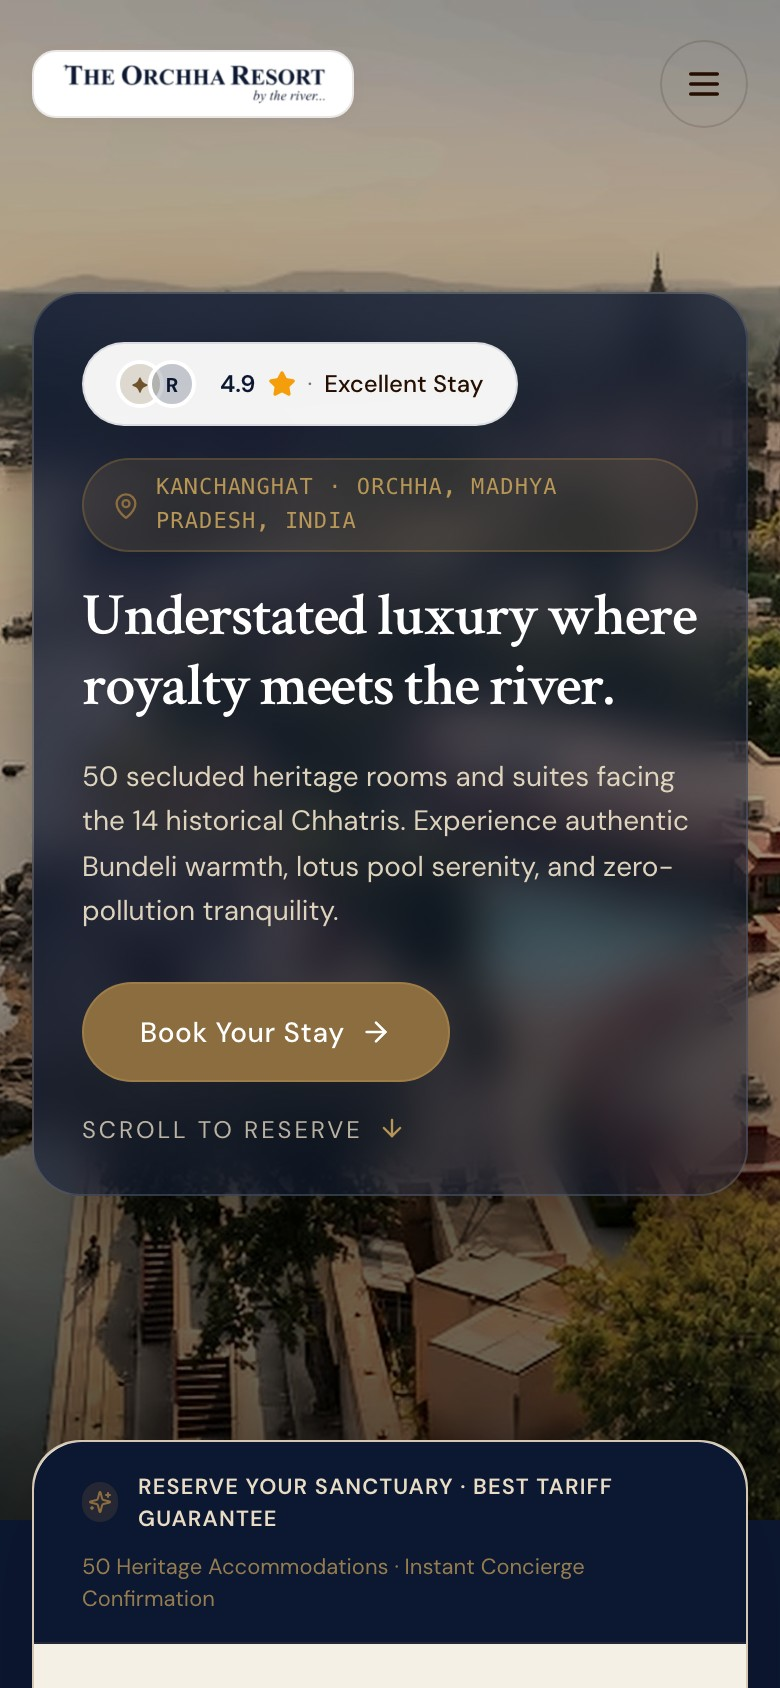
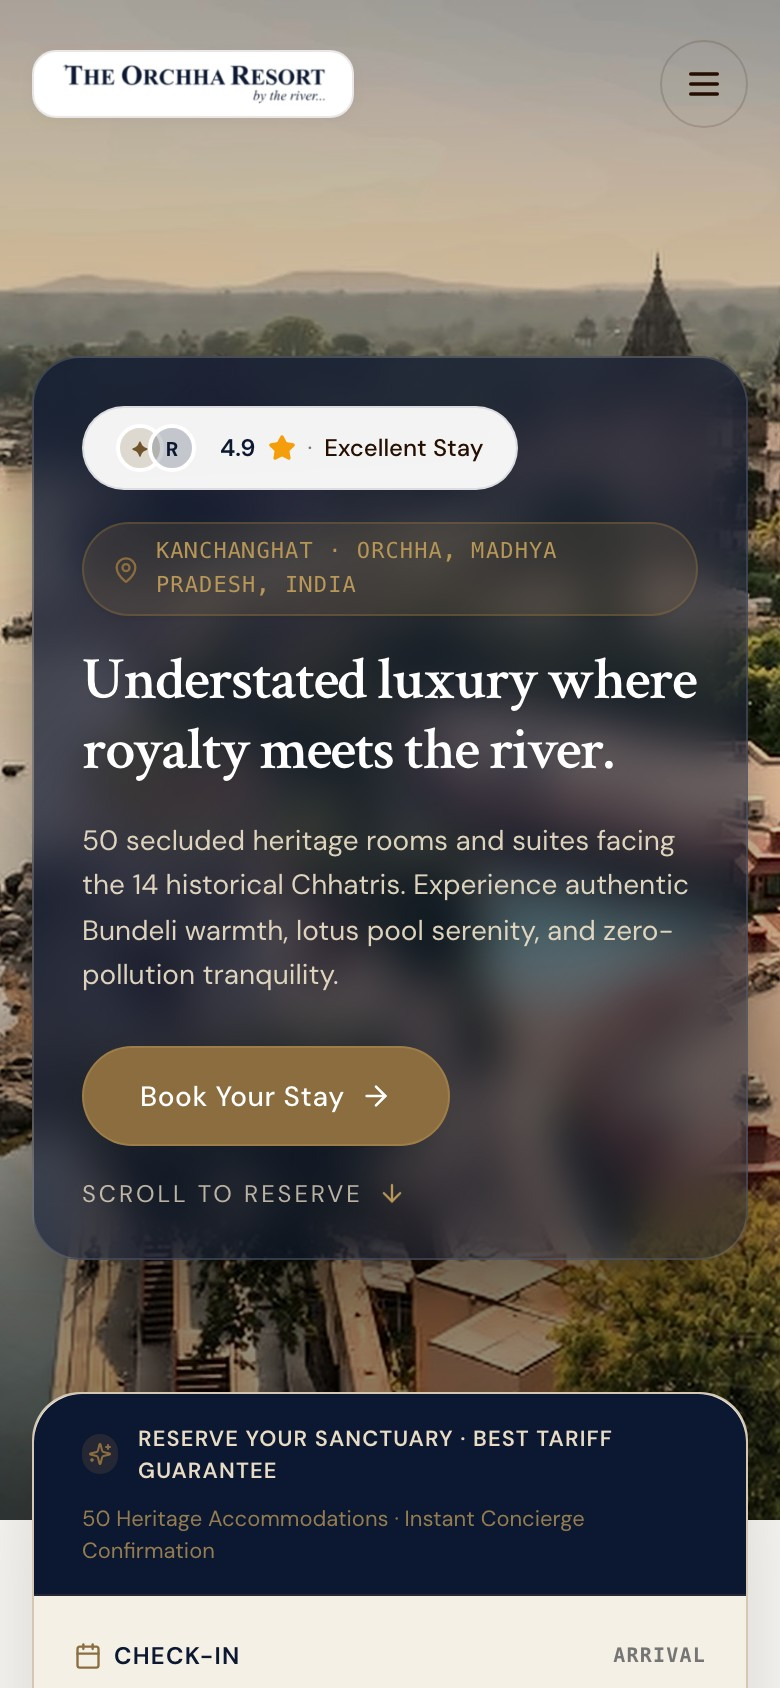
feat(hero): deploy new 4K sunrise over River Betwa and Royal Cenotaphs as homepage hero with scroll zoom

diff --git a/src/lib/assets.ts b/src/lib/assets.ts
@@ -61,13 +61,13 @@ export const RESORT_ASSETS: Record<string, ResortAsset> = {
   heroDesktop: {
     id: "hero-desktop",
     category: "hero",
-    title: "The Orchha Resort Aerial River Panorama & Royal Cenotaphs at Golden Hour (4K UHD)",
-    description: "Breathtaking high-definition aerial panorama of The Orchha Resort along the Betwa River with the 14 Royal Chhatris in the evening golden light",
+    title: "The Royal Cenotaphs at Golden Sunrise on River Betwa (4K UHD)",
+    description: "Breathtaking 4K Ultra-HD panorama of the ancient Bundela Cenotaphs (Chhatris) across the mist and waters of River Betwa at golden sunrise",
     src: "/images/resort/hero/hero-aerial-chhatris-river.jpg",
     aspectRatio: "16:9",
     width: 3840,
-    height: 2160,
-    alt: "Aerial panorama of The Orchha Resort nestled along the Betwa River with the 14 Royal Cenotaphs at golden hour",
+    height: 2865,
+    alt: "Golden sunrise over River Betwa with morning mist and the monumental 14 Royal Cenotaphs in Orchha",
     isStagingPlaceholder: false,
     targetPlacement: "Homepage Hero Section (Desktop)",
     replacementFileName: "hero-aerial-chhatris-river.jpg",
@@ -75,13 +75,13 @@ export const RESORT_ASSETS: Record<string, ResortAsset> = {
   heroMobile: {
     id: "hero-mobile",
     category: "hero",
-    title: "The Orchha Resort Aerial River Panorama & Royal Cenotaphs at Golden Hour (4K UHD)",
-    description: "Breathtaking high-definition aerial panorama of The Orchha Resort along the Betwa River with the 14 Royal Chhatris in the evening golden light",
+    title: "The Royal Cenotaphs at Golden Sunrise on River Betwa (4K UHD)",
+    description: "Breathtaking 4K Ultra-HD panorama of the ancient Bundela Cenotaphs (Chhatris) across the mist and waters of River Betwa at golden sunrise",
     src: "/images/resort/hero/hero-aerial-chhatris-river.jpg",
     aspectRatio: "16:9",
     width: 3840,
-    height: 2160,
-    alt: "Aerial panorama of The Orchha Resort nestled along the Betwa River with the 14 Royal Cenotaphs at golden hour",
+    height: 2865,
+    alt: "Golden sunrise over River Betwa with morning mist and the monumental 14 Royal Cenotaphs in Orchha",
     isStagingPlaceholder: false,
     targetPlacement: "Homepage Hero Section (Mobile)",
     replacementFileName: "hero-aerial-chhatris-river.jpg",

diff --git a/src/components/hero/HeroScrollBookingSequence.tsx b/src/components/hero/HeroScrollBookingSequence.tsx
@@ -70,7 +70,7 @@ export function HeroScrollBookingSequence({ className }: HeroScrollBookingSequen
               priority
               sizes="100vw"
               quality={95}
-              className="object-cover object-center"
+              className="object-cover object-[center_40%]"
               style={{
                 backfaceVisibility: "hidden",
                 WebkitBackfaceVisibility: "hidden",
